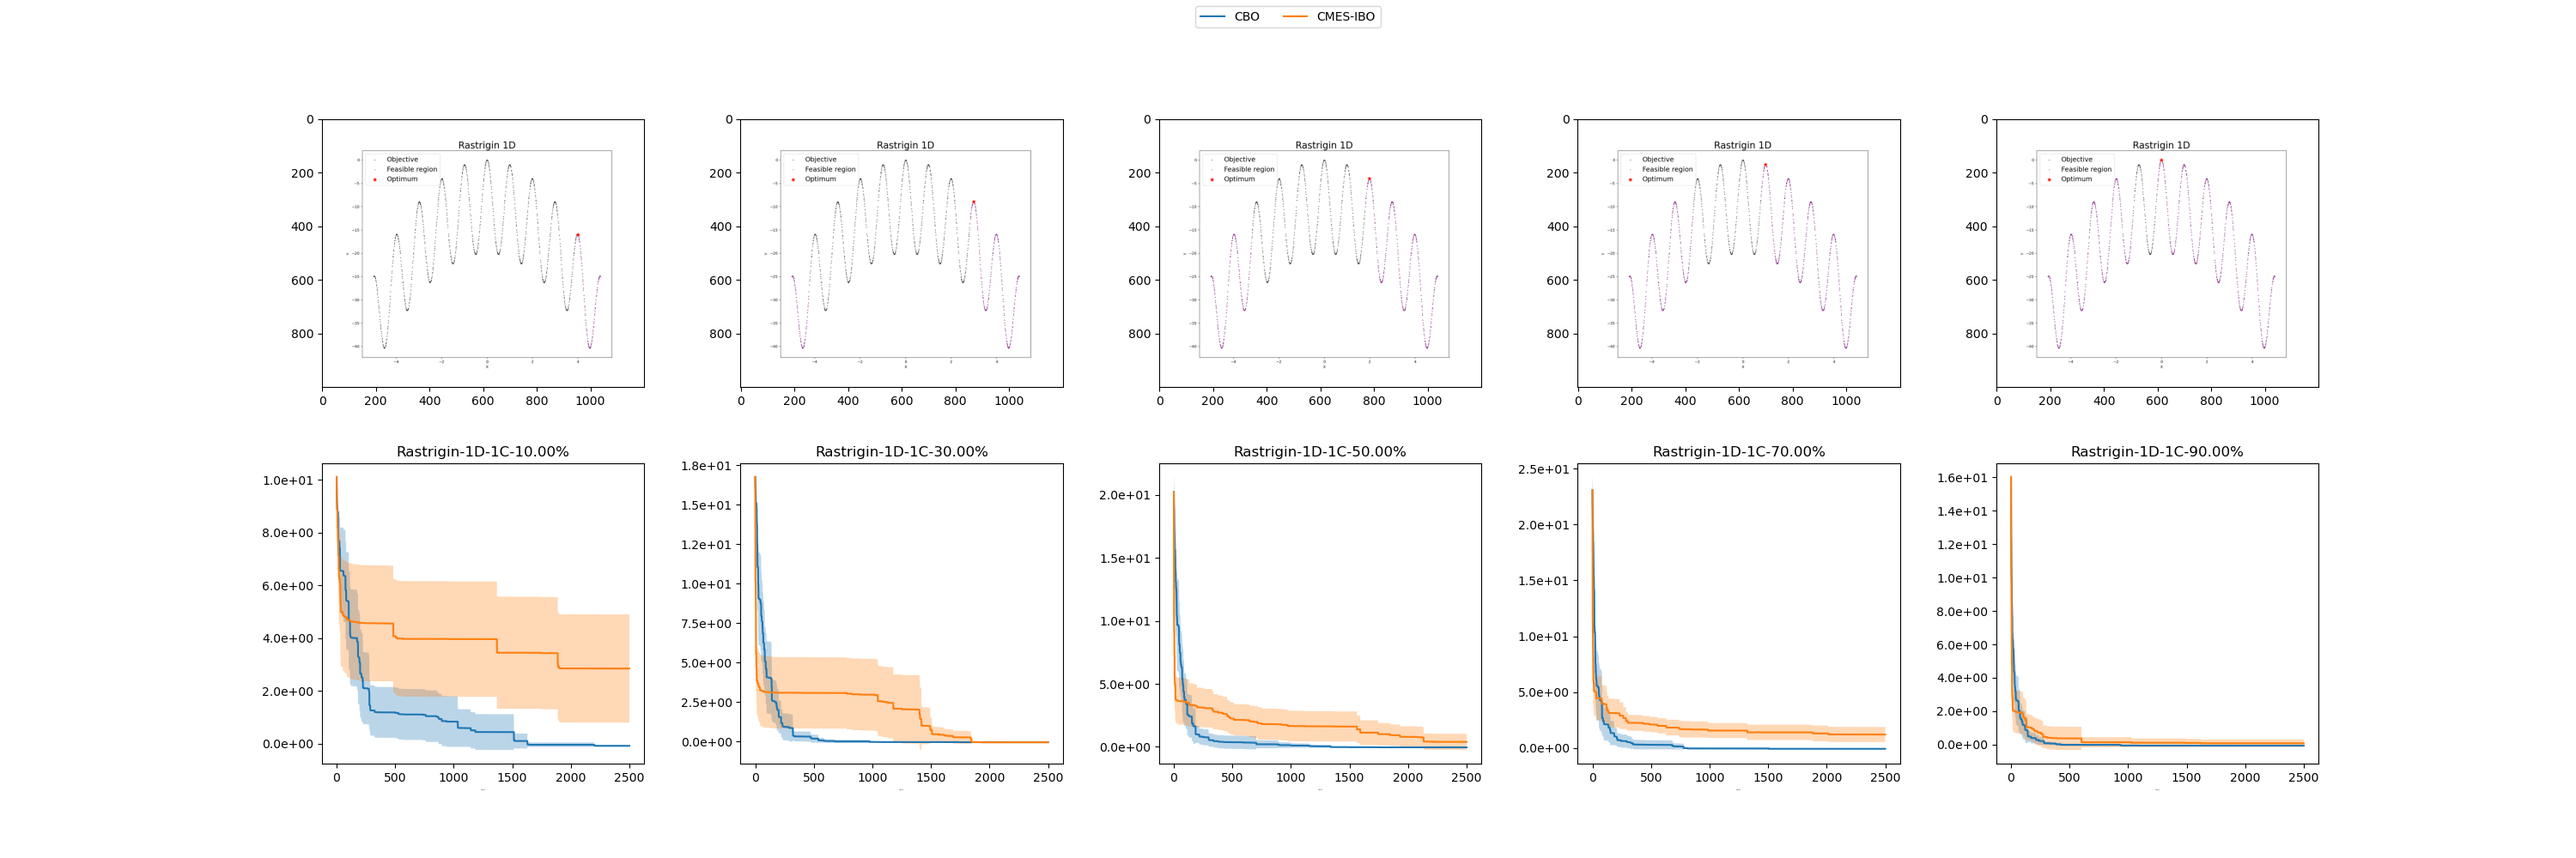
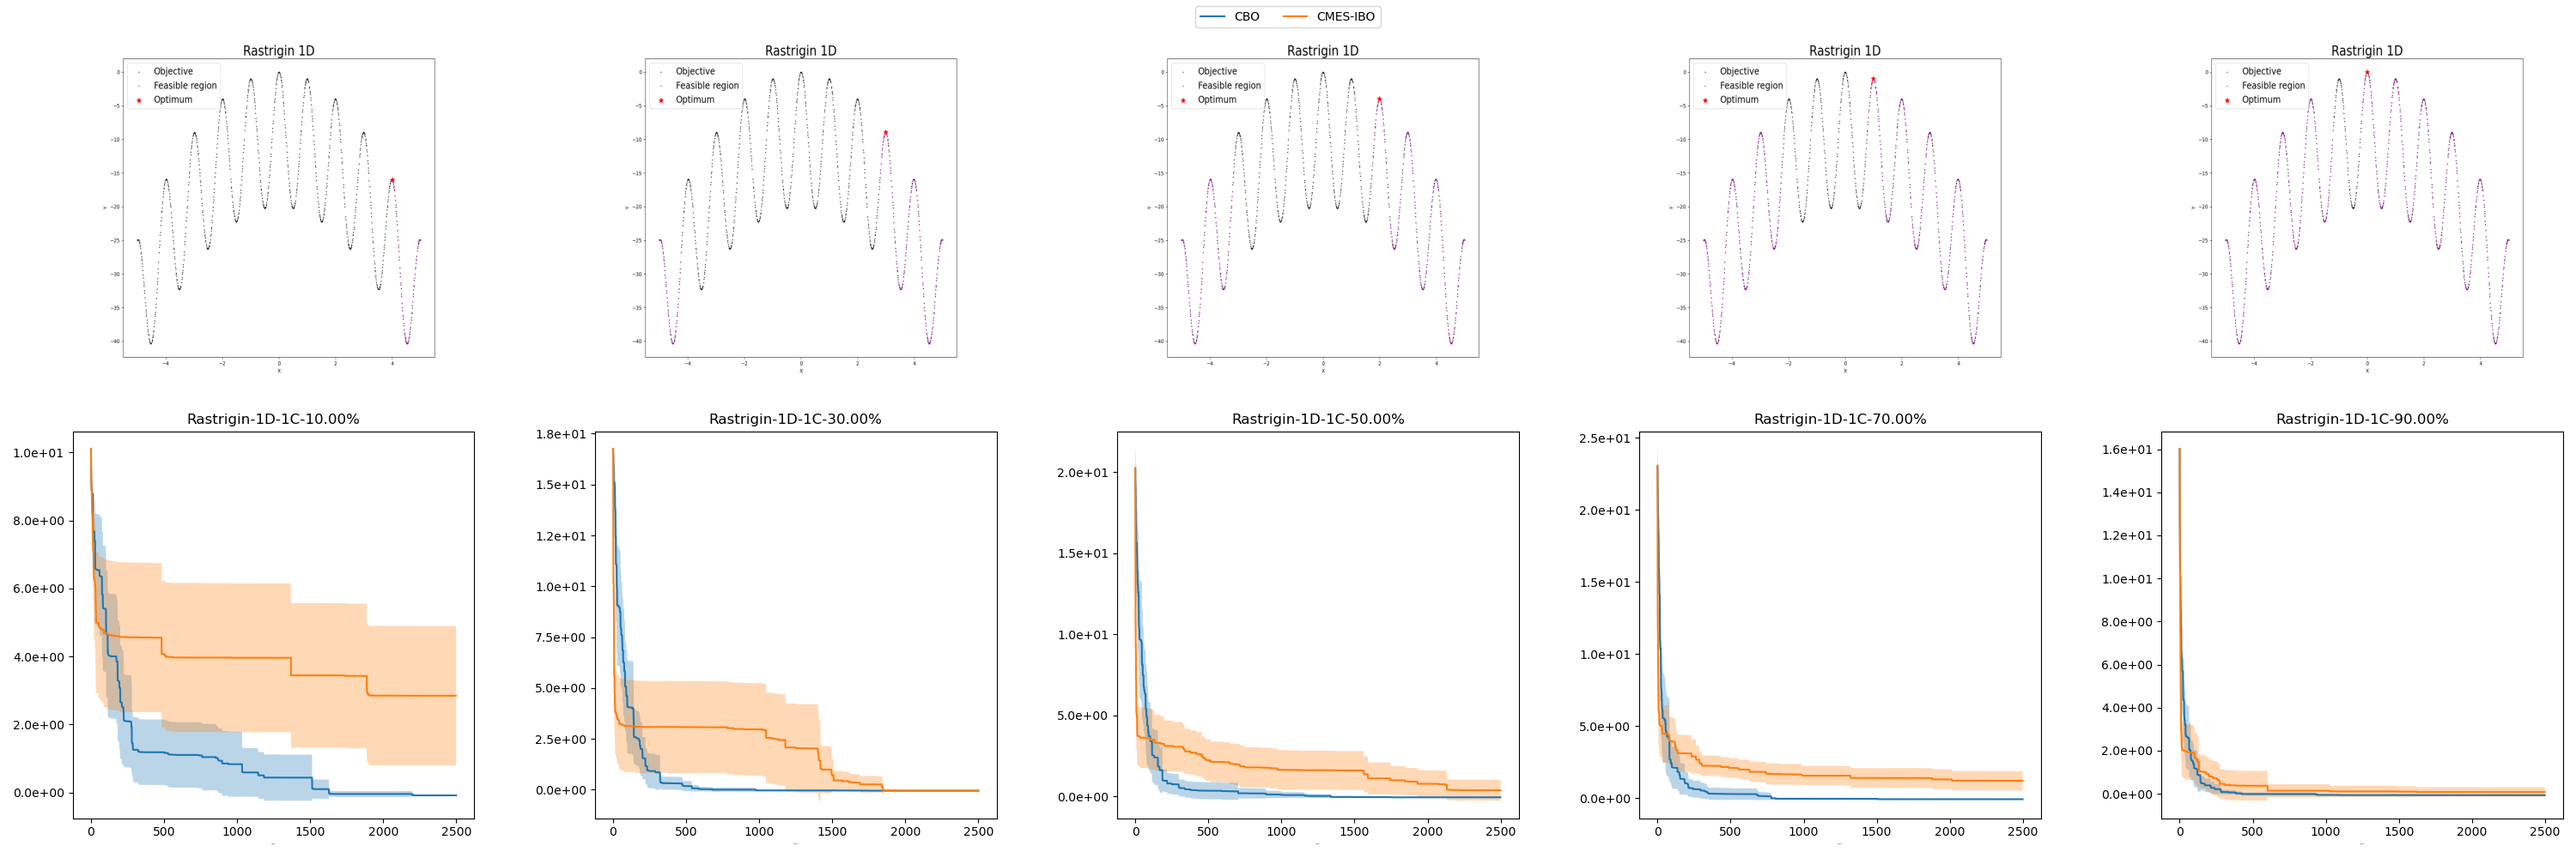
adjust format

diff --git a/visualize_scan.py b/visualize_scan.py
@@ -45,19 +45,22 @@ for idx, c_portion in enumerate(np.linspace(.1, .9, 5)):
     # res/illustration/tmlr_Rastrigin 1D_P10%.png
     img = Image.open(f"{IMG_DIR}tmlr_Rastrigin 1D_P{c_portion:.0%}.png")
     ax = plt.subplot(2, 5, idx+1)
-    ax.imshow(img)
+    plt.axis('off')
+    ax.imshow(img, aspect='auto')
     ax = plt.subplot(2, 5, idx+6)
     
     visualize_regret(ax=ax, RES=RES_num, fontsize=fontsize, n_repeat=15, n_iter=2500)
     ax.set_title(f"Rastrigin-1D-1C-{c_portion:.2%}")
+    # plt.legend()
 
 handles, labels = ax.get_legend_handles_labels()
+# plt.subplots_adjust(hspace=0, wspace=0)
 
 
-
+# TODO: split the actual visualization.
 
 # plot results
-# plt.tight_layout()
+plt.tight_layout()
 fig.legend(handles, labels, loc='upper center', ncol=len(labels))
 plt.subplots_adjust(left=None, bottom=None, right=None, top=None, wspace=0.3, hspace=None)
 plt.savefig("simple_regret_scan.png")
